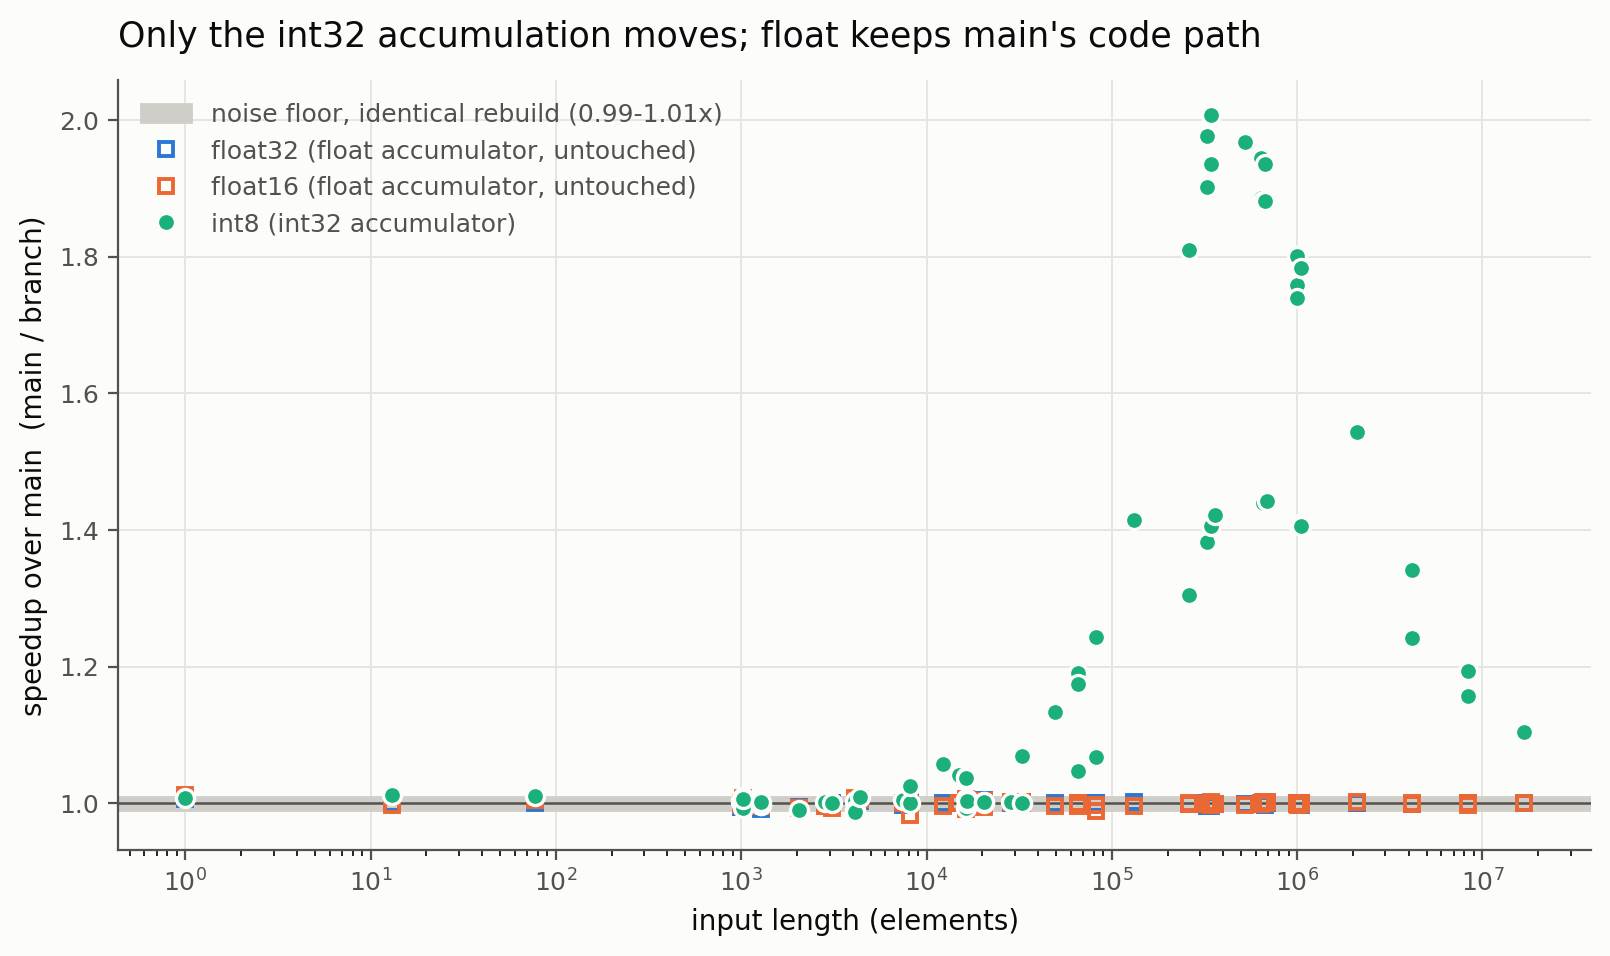
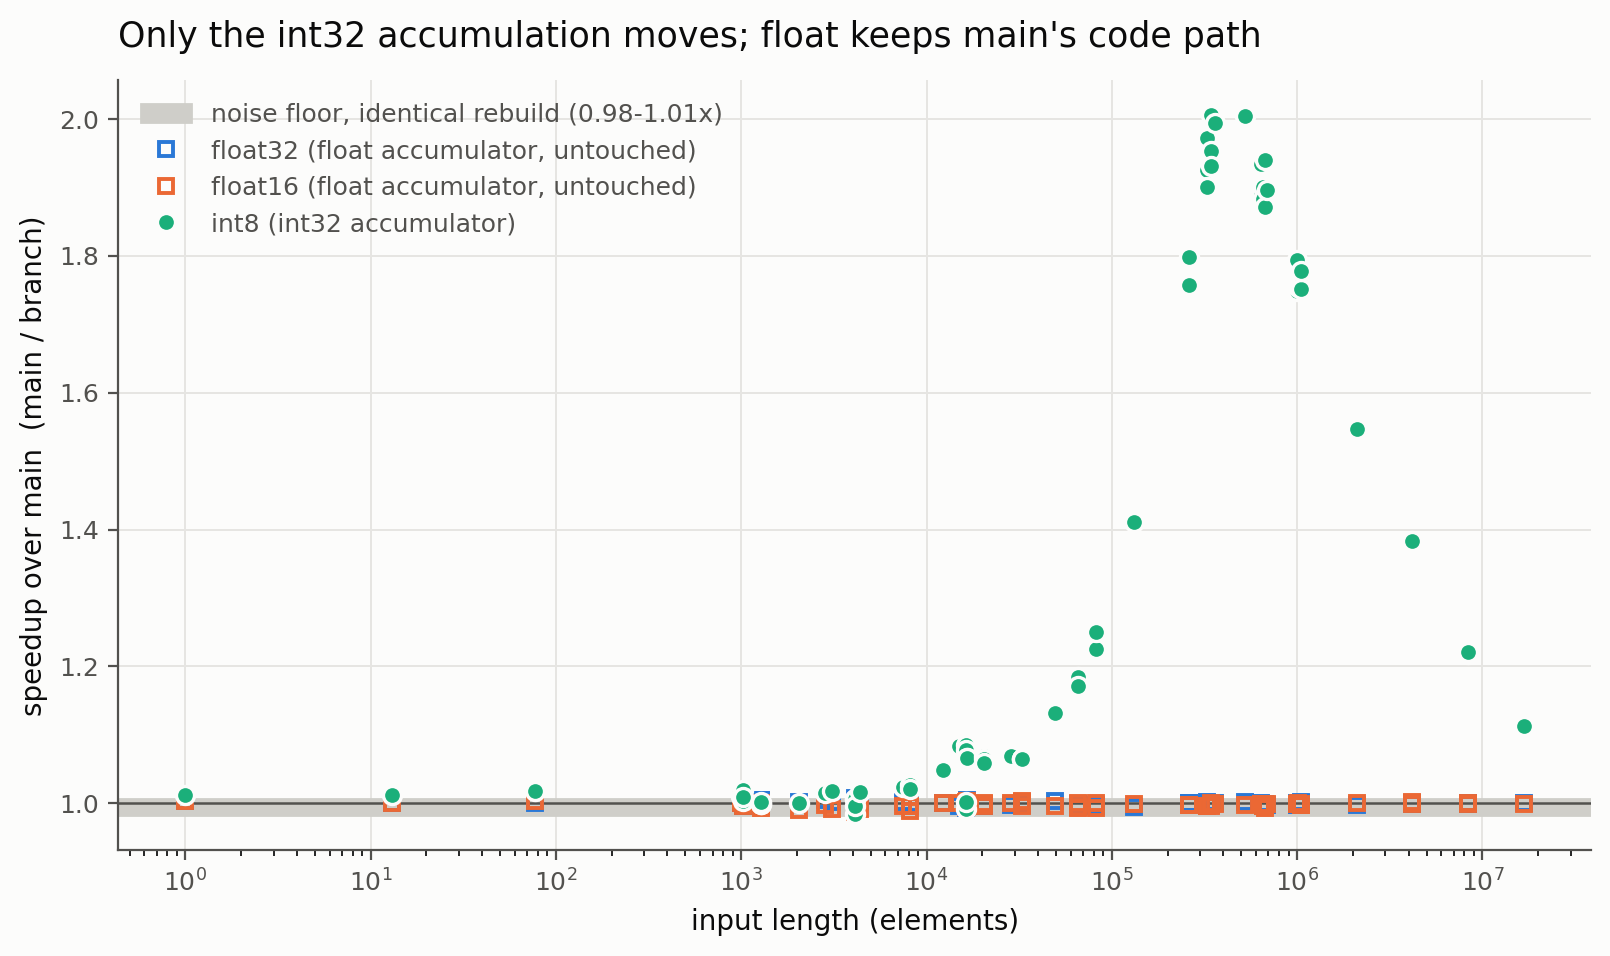
docs: refresh the int32-partials figures against main at 21c484d

diff --git a/README.md b/README.md
@@ -9,9 +9,11 @@ at a fixed address.
 | file | what it shows |
 |---|---|
 | `fig1_speedup.png` | Speedup by input length. int8 (int32 accumulator) is the only dtype that moves; float32 and float16 sit on the noise floor by construction. |
-| `fig2_attribution.png` | The saving against the number of serialized 8-element vector operations the column fold removes, `(blocks·S − S) / 8`. The predictor comes from the host tiling rule alone; the fit is 11.4 ns per operation, R² = 0.9998. |
+| `fig2_attribution.png` | The saving against the number of serialized 8-element vector operations the column fold removes, `(blocks·S − S) / 8`. The predictor comes from the host tiling rule alone; the fit is 11.4 ns per operation, R² = 0.9981. |
 
 Harness, raw CSVs and plot sources live in
 `pypto-3.0-notes/pto-kernels/int32_partials_plots/`.
+
+Measured against `main` at `21c484d`, i.e. on top of #300.
 
 Earlier campaigns: `fold-chunk-figures` (#297), `tail-rows-figures` (#300).
